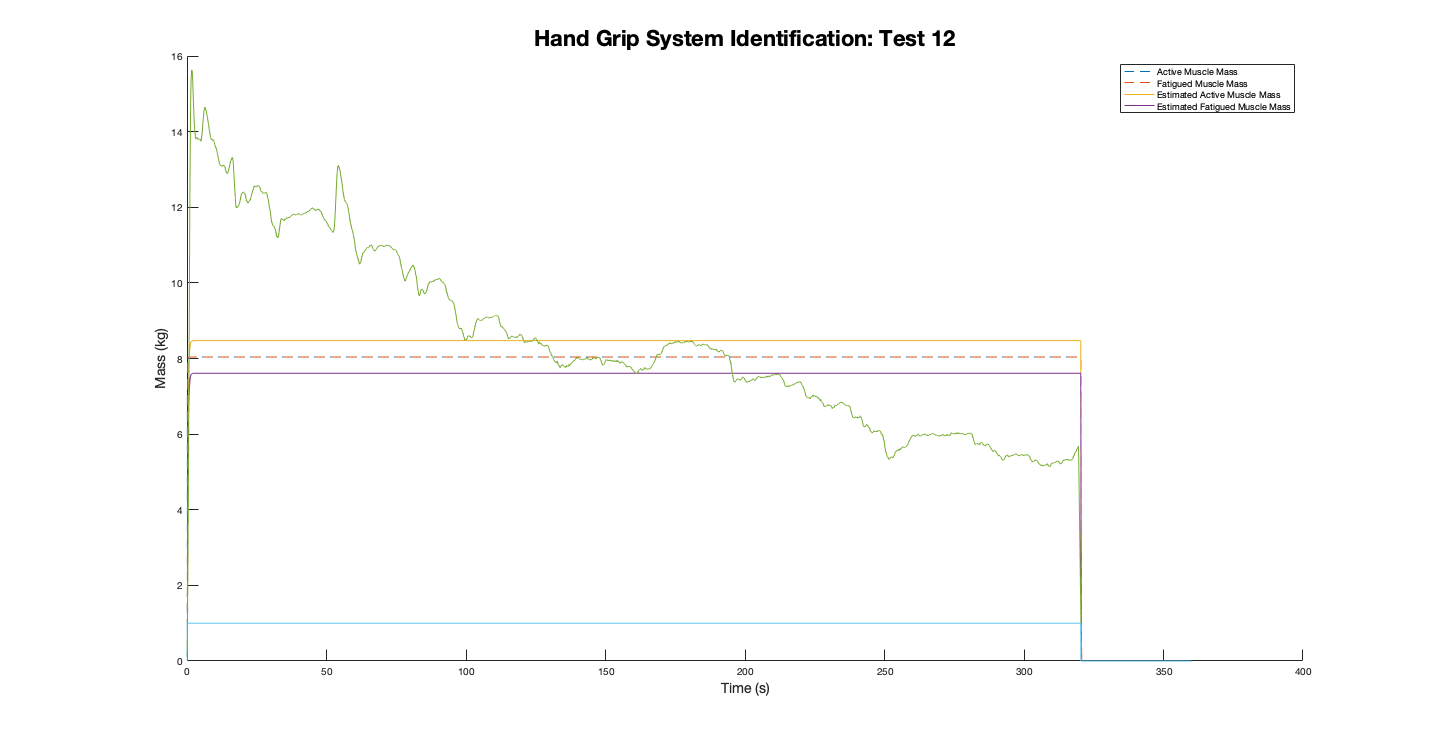
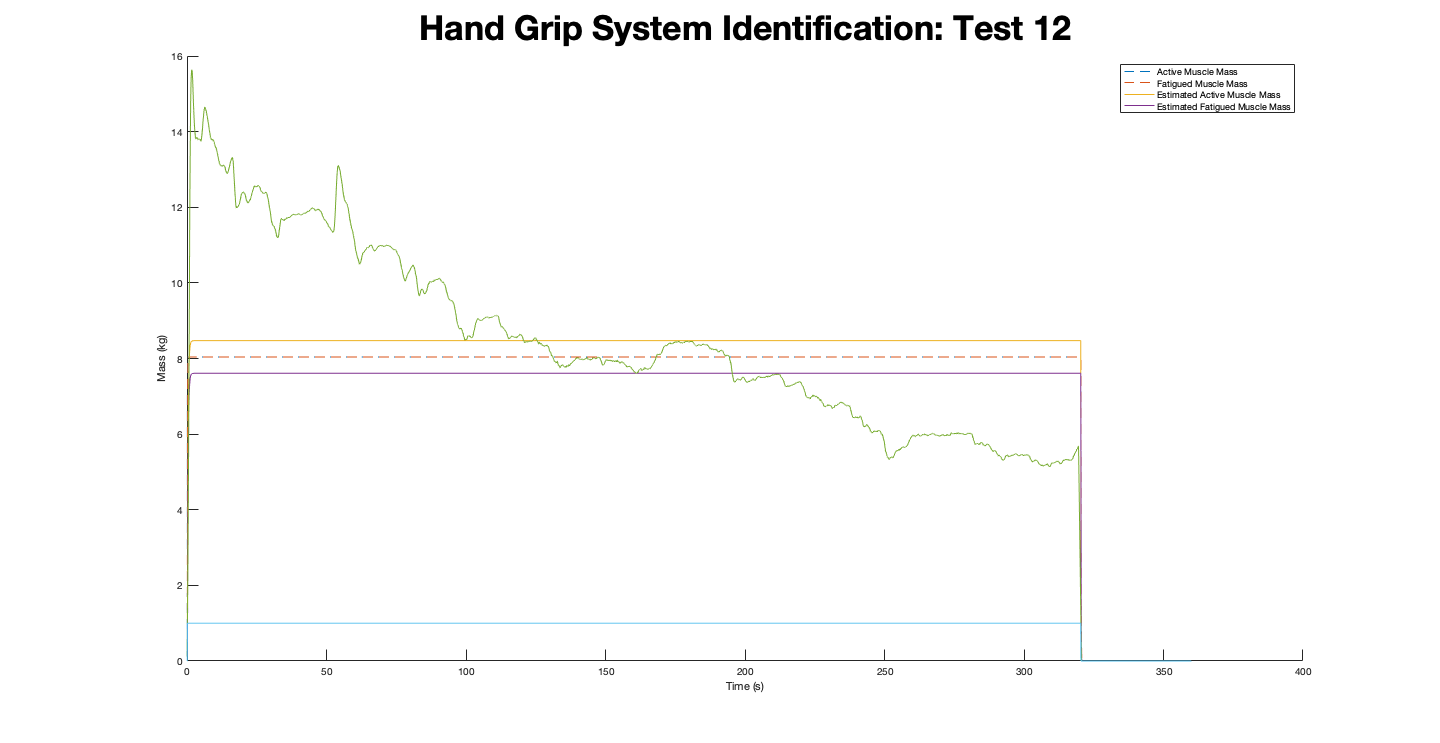
Last commit?

Changed region(s): [[0.2812, 0.0, 0.75, 0.0619], [0.0938, 0.4334, 0.125, 0.5262], [0.5, 0.8977, 0.5312, 0.9287]]

diff --git a/MATLAB_sys_identification/2-state models/fit_disc_ode_parameters.m b/MATLAB_sys_identification/2-state models/fit_disc_ode_parameters.m
@@ -349,6 +349,7 @@ plot(t_vec, y_data);
 plot(t_vec, u_vec);
 legend("Active Muscle Mass", "Fatigued Muscle Mass", "Estimated Active Muscle Mass", "Estimated Fatigued Muscle Mass");
 <<<<<<< HEAD
+<<<<<<< HEAD
 xlabel("Time (s)")
 ylabel("Mass (kg)")
 title("Hand Grip System Identification")
@@ -359,6 +360,11 @@ xlabel("Time (s)", "FontSize", 14)
 ylabel("Mass (kg)", "FontSize", 14)
 title("Hand Grip System Identification: Test 12m", "fontSize", 22)
 >>>>>>> 2393880 (Final updates to the code)
+=======
+xlabel("Time (s)")
+ylabel("Mass (kg)")
+title("Hand Grip System Identification: Test 12", "fontSize", 34)
+>>>>>>> 39930d4 (Last commit?)
 hold off
 disp(phi_estims(:, min_index))
 <<<<<<< HEAD
